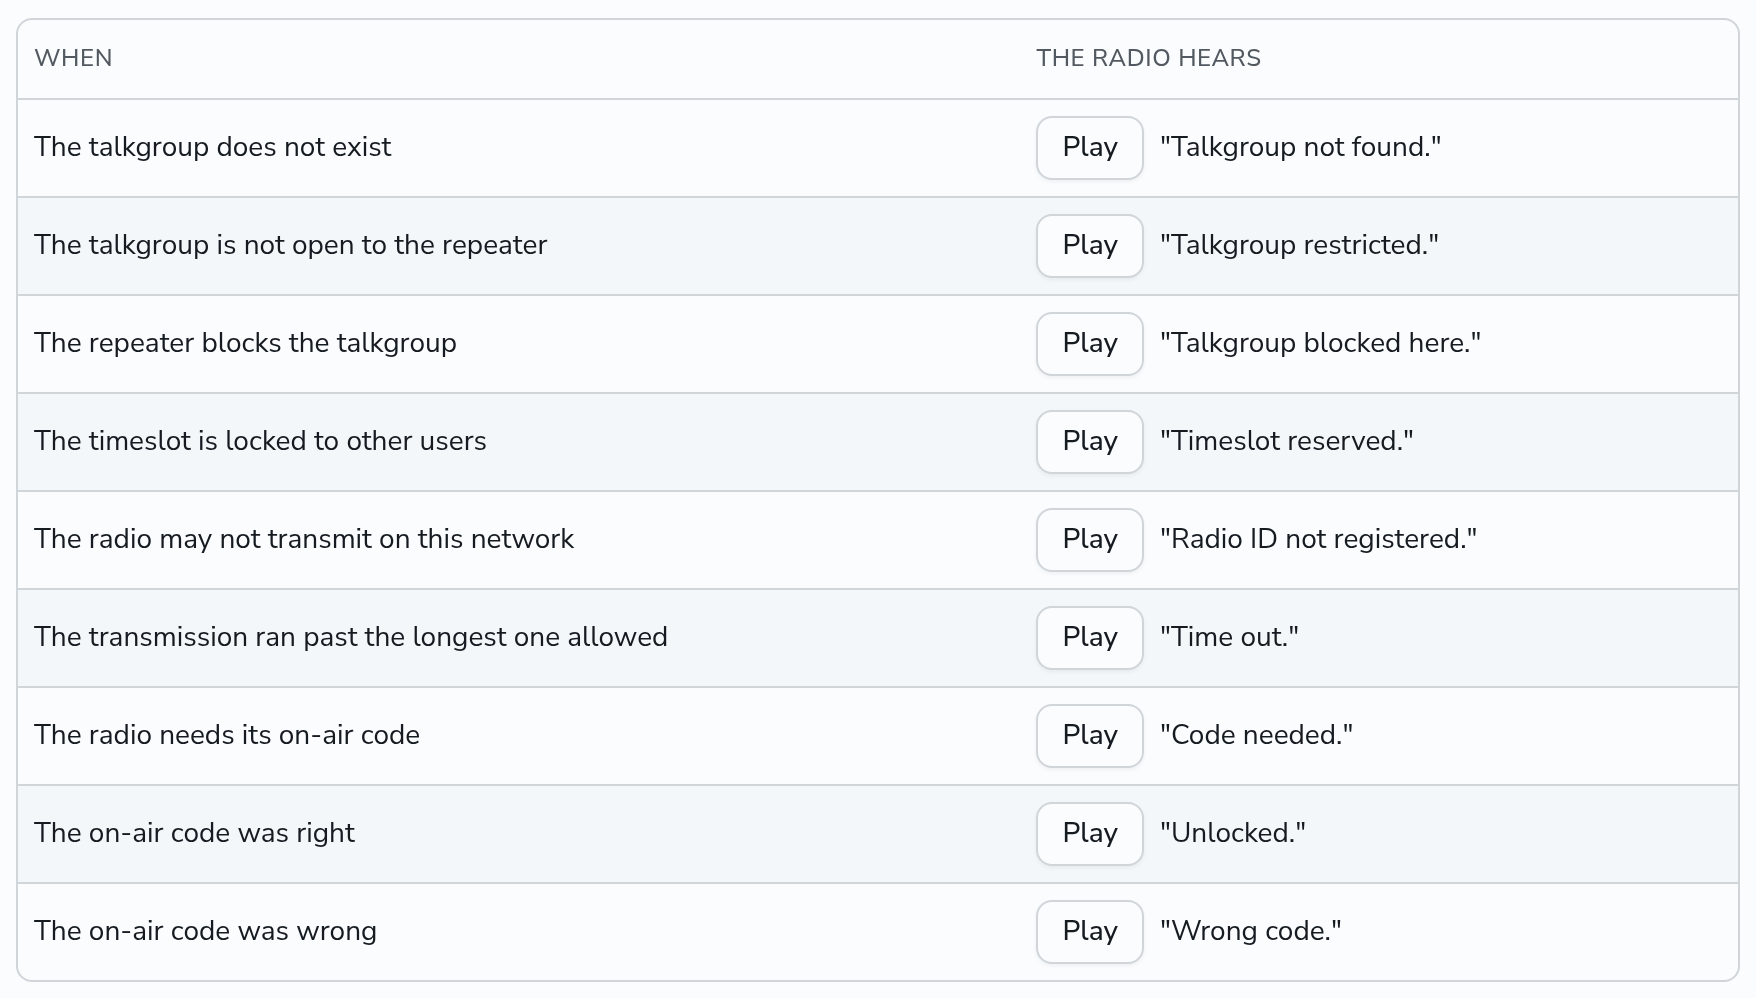
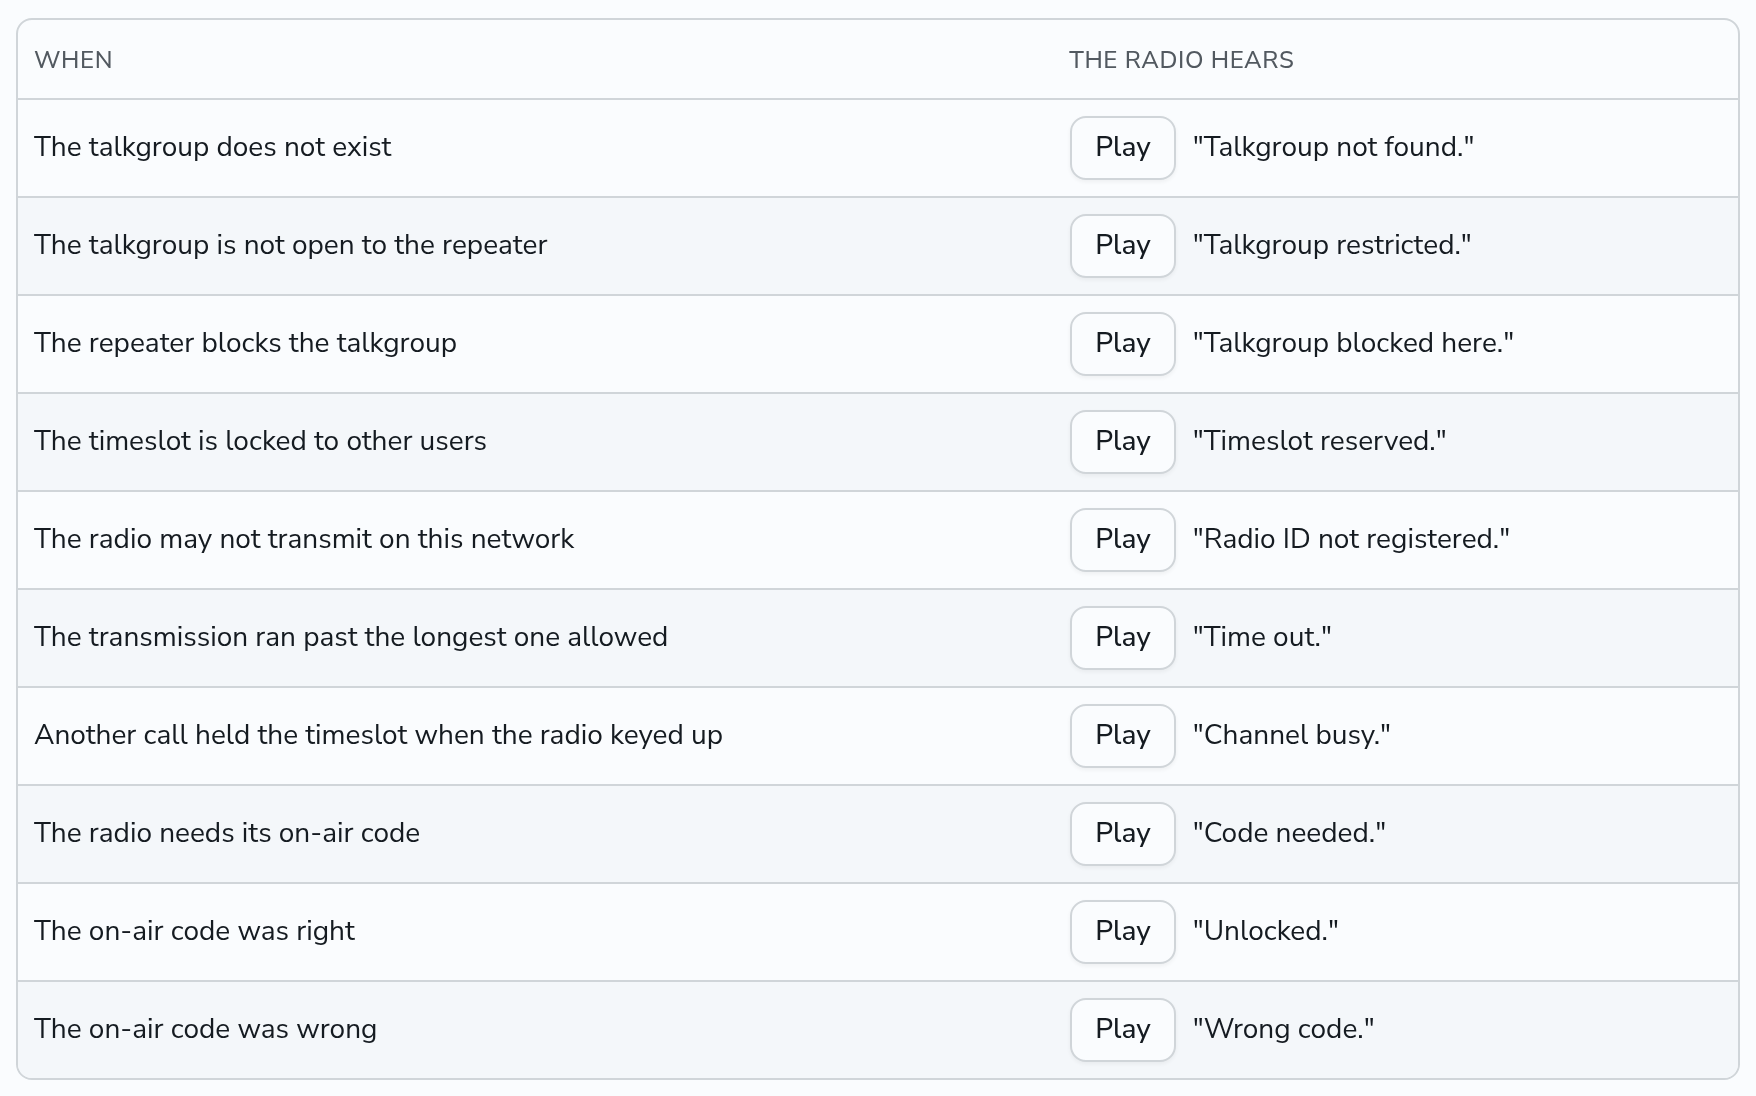
doc: describe the Channel busy prompt

diff --git a/doc/admin/routing.md b/doc/admin/routing.md
@@ -86,11 +86,14 @@ With **Tell the radio why its call was refused** on, under **Spoken refusals** o
 | The timeslot is locked to other users | "Timeslot reserved." |
 | The radio may not transmit on this network (see [Who may transmit](#who-may-transmit)) | "Radio ID not registered." |
 | The transmission ran past the longest one allowed | "Time out." |
+| Another call held the timeslot when the radio keyed up (see below) | "Channel busy." |
 | The radio needs its [on-air code](../guides/on-air-code.md) | "Code needed." |
 | The on-air code was right | "Unlocked." |
 | The on-air code was wrong | "Wrong code." |
 
-DMRHub plays no prompt when a call reaches some repeaters but a timeslot of another one is busy, as the call still reaches the others.
+DMRHub plays "Channel busy." only when [Two calls at once](#two-calls-at-once) is `first` and spoken refusals are on, and only when the first burst of the transmission comes in while the call of another radio holds that timeslot of the hotspot or repeater that the radio transmits through. DMRHub still routes the transmission as before; the prompt only tells the radio that its timeslot was busy. The radio whose call held the timeslot first hears no prompt. The Spoken refusals card lists this prompt only when Two calls at once is `first`. DMRHub plays no prompt when a call reaches some repeaters but a timeslot of another one is busy, as the call still reaches the others.
+
+With `first`, any prompt also waits until 1 second after the last burst of a call that holds the timeslot, so it does not play over that call.
 
 **Voice** sets the voice for users who did not pick their own in Settings; each user can pick a voice for the prompts to their radios. **Play** plays a prompt in the voice on the page. **Service ID** is the ID that the prompts come from. It must be a number from 1 to 16777215, other than 4000 and the on-air code IDs 9000000 to 9999999. Pick an ID that no talkgroup, repeater or plugin uses on the network.
 
